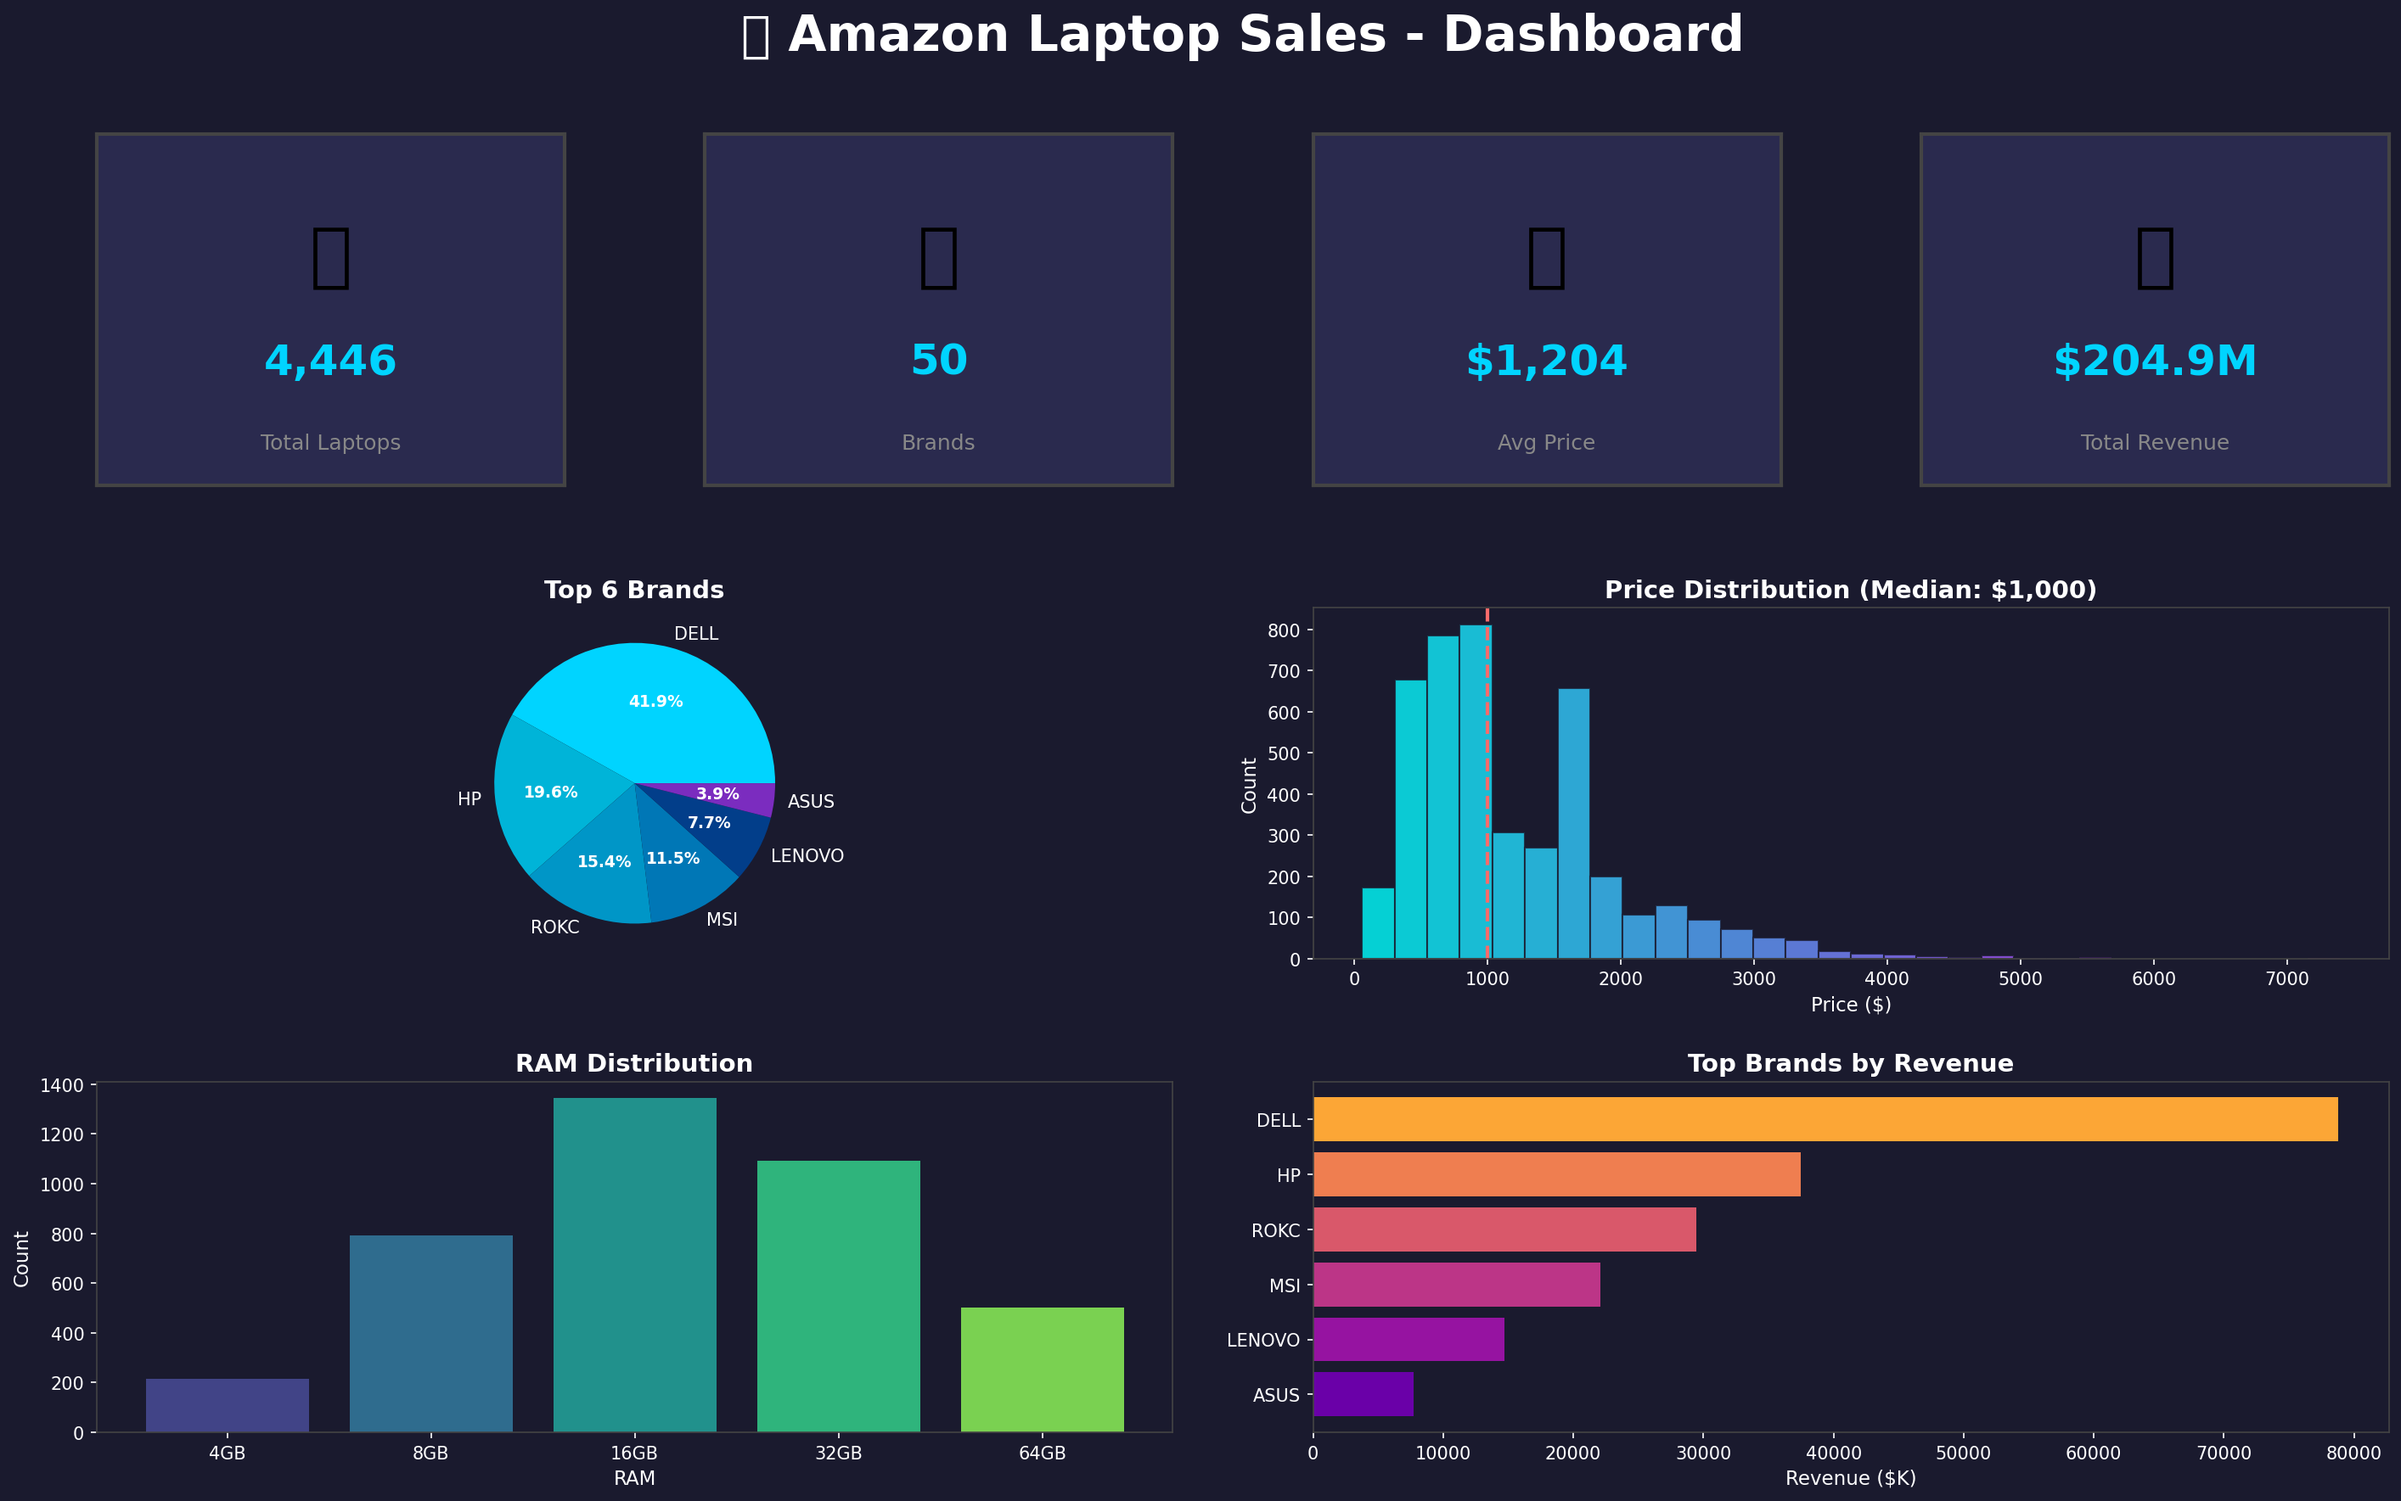
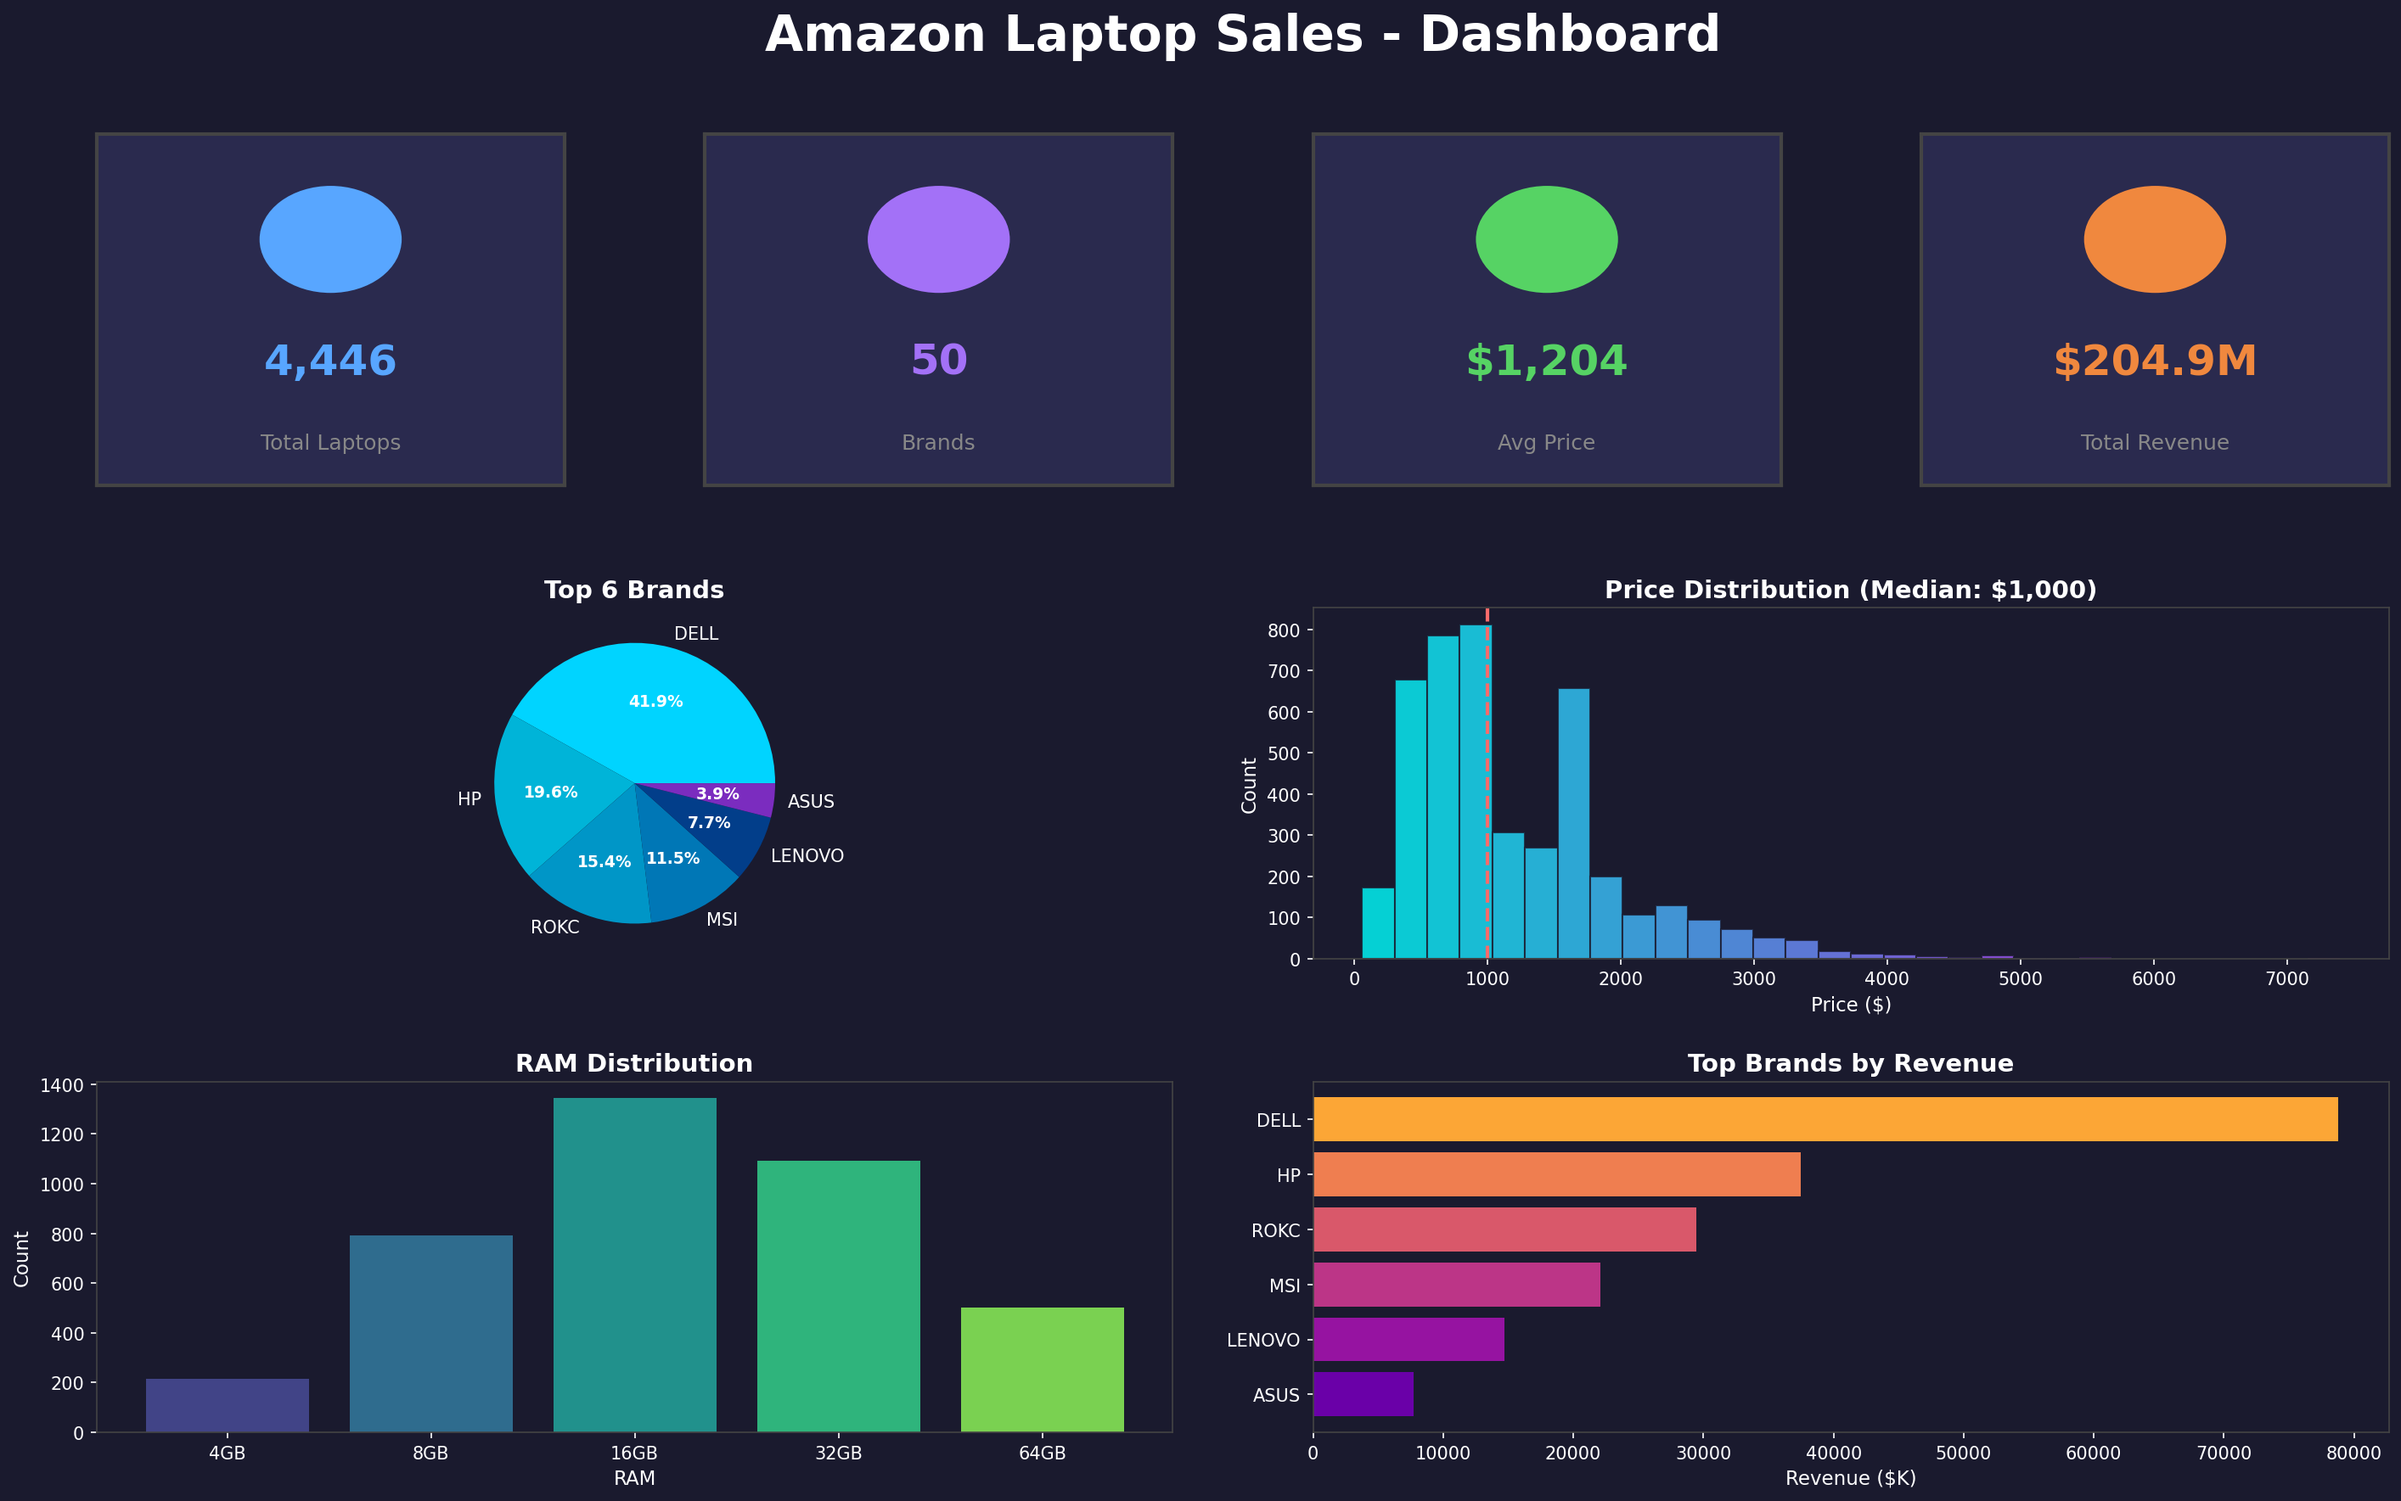
Fix: Replace matplotlib emojis with colored circles

diff --git a/scripts/10_summary_dashboard.py b/scripts/10_summary_dashboard.py
@@ -31,7 +31,7 @@ fig = plt.figure(figsize=(20, 12))
 fig.patch.set_facecolor('#1a1a2e')
 
 # Title
-fig.suptitle('💻 Amazon Laptop Sales - Dashboard', fontsize=28, fontweight='bold', 
+fig.suptitle('Amazon Laptop Sales - Dashboard', fontsize=28, fontweight='bold', 
              color='white', y=0.98)
 
 # Create grid
@@ -39,24 +39,30 @@ gs = fig.add_gridspec(3, 4, hspace=0.35, wspace=0.3,
                       left=0.05, right=0.95, top=0.90, bottom=0.05)
 
 # ===== ROW 1: Key Stats =====
-# Stat boxes
+# Stat boxes with colors instead of emojis
 stats = [
-    ('Total Laptops', f'{len(df):,}', '📦'),
-    ('Brands', f'{df["brand"].nunique()}', '🏢'),
-    ('Avg Price', f'${df_valid["price_clean"].mean():,.0f}', '💰'),
-    ('Total Revenue', f'${df["total_sales_clean"].sum()/1e6:,.1f}M', '📈'),
+    ('Total Laptops', f'{len(df):,}', '#58a6ff'),
+    ('Brands', f'{df["brand"].nunique()}', '#a371f7'),
+    ('Avg Price', f'${df_valid["price_clean"].mean():,.0f}', '#56d364'),
+    ('Total Revenue', f'${df["total_sales_clean"].sum()/1e6:,.1f}M', '#f0883e'),
 ]
 
-for i, (label, value, emoji) in enumerate(stats):
+for i, (label, value, color) in enumerate(stats):
     ax = fig.add_subplot(gs[0, i])
     ax.set_facecolor('#2a2a4e')
-    ax.text(0.5, 0.65, emoji, fontsize=40, ha='center', va='center', transform=ax.transAxes)
+    
+    # Draw a colored circle/icon at top
+    circle = plt.Circle((0.5, 0.7), 0.15, color=color, transform=ax.transAxes)
+    ax.add_patch(circle)
+    
     ax.text(0.5, 0.35, value, fontsize=24, fontweight='bold', ha='center', va='center', 
-            transform=ax.transAxes, color='#00d4ff')
+            transform=ax.transAxes, color=color)
     ax.text(0.5, 0.12, label, fontsize=12, ha='center', va='center', 
             transform=ax.transAxes, color='#888')
     ax.set_xticks([])
     ax.set_yticks([])
+    ax.set_xlim(0, 1)
+    ax.set_ylim(0, 1)
     for spine in ax.spines.values():
         spine.set_color('#444')
         spine.set_linewidth(2)
